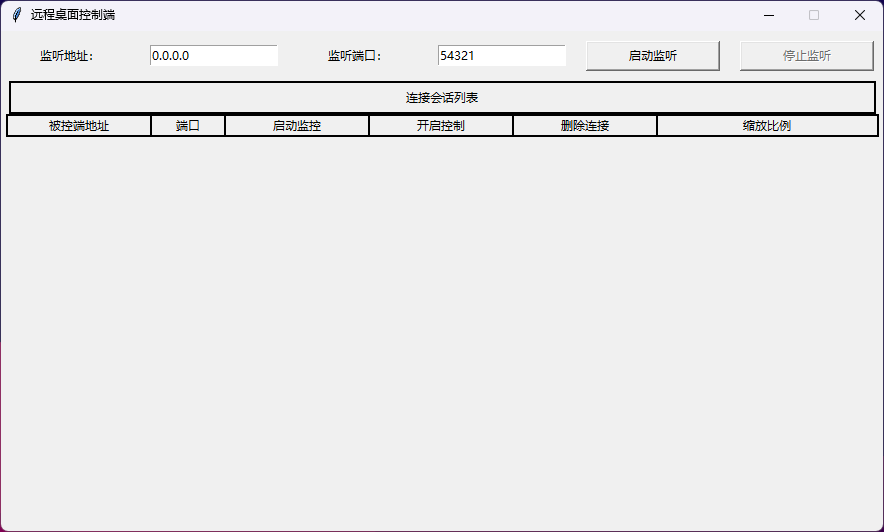
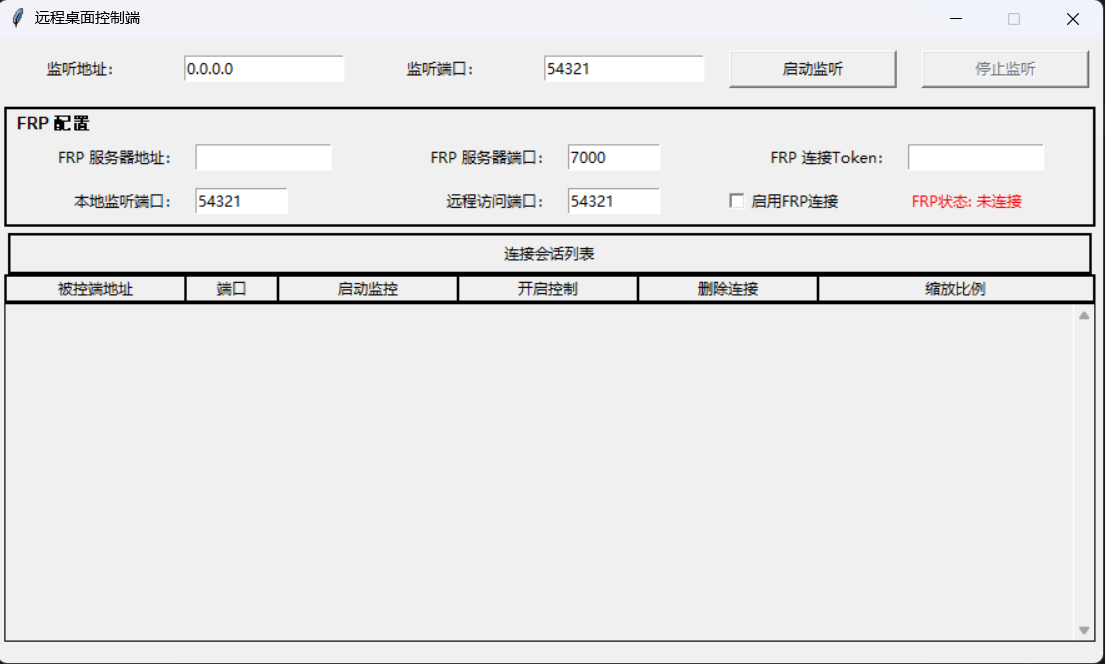
控制端集成frp客户端，实现公网远程控制。

diff --git a/client.py b/client.py
@@ -411,7 +411,7 @@ class RemoteDesktopClient:
         self.root.title("远程桌面被控端")
 
         # 设置窗口大小，在屏幕居中显示
-        win_width, win_height = 300, 230
+        win_width, win_height = 350, 230
         win_x = (self.root.winfo_screenwidth() - win_width) // 2
         win_y = (self.root.winfo_screenheight() - win_height) // 2
         self.root.geometry(f'{win_width}x{win_height}+{win_x}+{win_y}')

diff --git a/README.md b/README.md
@@ -1,26 +1,45 @@
 # 基于Python的远程桌面监控软件
 
-
+---
 ## 控制端
 
-> 默认无需修改监听地址和端口
+> 在同一网段的内网中，默认不用做任何配置修改。
+
+> 在互联网环境下，推荐自行购买公网VPS服务器来搭建frp内网穿透服务:
+> 
+> `FRP服务器地址` 填写`VPS服务器` 的 `公网IP地址`
+> 
+> `FRP连接token` 填写`VPS服务器` 的 `FRP连接token`
+> 
+> `远程访问端口`随便填
+> 
+> `本地监听端口`保持和`监听端口`一致
 
 ![](imgs/1.png)
 
 
+---
 ## 被控端
 
-> 填写`控制端的`内网`IP地址`和监听`端口`，启动连接后会如遇到网络问题导致连接断开10s后会自动重连，无需人为介入。
+> 在同一网段的内网中，`目标地址` 直接填写 `控制端` 的 `内网IP地址` 和 `监听端口`。
+
+> 在互联网环境下，推荐自行购买公网VPS服务器来搭建frp内网穿透服务:
 > 
-> 如果使用考试客户端软件，建议自行修改该被控端的exe文件的名字来迷惑考试客户端软件的进程扫描行为，如`SoftwareUpdate.exe`。
->
-> 隐藏窗口后，用完了可以通过任务管理器杀进程来结束程序。
+> `目标地址` 填写`VPS服务器` 的 `公网IP地址`
 > 
-> 如需在互联网环境下使用内网穿透软件，如frp，可以参考最下面的教程。
+> `目标端口` 填写`VPS服务器` 的 `远程访问端口`
+
+> 启动连接后会如遇到网络问题导致连接断开 `10s` 后会自动重连到控制端，无需人为介入。
+> 
+> 如果考试使用客户端软件，建议自行修改该被控端的exe文件名来迷惑考试客户端软件的进程扫描行为，如`WindowsUpdate.exe`。
 >
+> 隐藏窗口后，只能通过任务管理器杀进程来结束程序。
+> 
+
 
 ![](imgs/2.png)
 
+---
 
 ## 监控界面
 
@@ -28,11 +47,12 @@
 
 ![](imgs/3.png)
 
+---
 
 # 开发环境
 
 ```plain
-python 3.8.20
+python 3.8
 ```
 
 ```bash
@@ -52,6 +72,8 @@ PyAutoGUI==0.9.54
 pyinstaller==6.13.0
 ```
 
+---
+
 # 通过内网穿透实现互联网环境下的远程监控
 
 ## 前提条件
@@ -62,12 +84,12 @@ pyinstaller==6.13.0
 
 ## 服务器部署Frp内网穿透
 
-1. 下载[frp压缩包](https://github.com/fatedier/frp)，解压，如 `frp_0.62.1_linux_amd64.tar.gz`：
+1. 下载[frp压缩包](https://github.com/fatedier/frp)，解压，如 `frp_0.65.0_linux_amd64.tar.gz`：
 
 ```bash
-wget https://github.com/fatedier/frp/releases/download/v0.62.1/frp_0.62.1_linux_amd64.tar.gz
-tar -xzvf frp_0.62.1_linux_amd64.tar.gz
-cd frp_0.62.1_linux_amd64
+wget https://github.com/fatedier/frp/releases/download/v0.65.0/frp_0.65.0_linux_amd64.tar.gz
+tar -xzvf frp_0.65.0_linux_amd64.tar.gz
+cd frp_0.65.0_linux_amd64
 
 ```
 
@@ -97,7 +119,7 @@ Wants = network.target
 [Service]
 Type = simple
 # 启动frps的命令，需修改为您的frps的文件夹路径
-ExecStart = /root/frp_0.62.1_linux_amd64/frps -c /root/frp_0.62.1_linux_amd64/frps.toml
+ExecStart = /root/frp_0.65.0_linux_amd64/frps -c /root/frp_0.65.0_linux_amd64/frps.toml
 
 [Install]
 WantedBy = multi-user.target
@@ -125,48 +147,14 @@ systemctl status frps
      Memory: 14.0M
         CPU: 1min 45.006s
      CGroup: /system.slice/frps.service
-             └─746 /root/frp_0.62.1_linux_amd64/frps -c /root/frp_0.62.1_linux_amd64/frps.toml
+             └─746 /root/frp_0.65.0_linux_amd64/frps -c /root/frp_0.65.0_linux_amd64/frps.toml
 ```
 
 
-## 本地安装FrpDesktop客户端连接服务器
 
-1. 下载[FrpDesktop客户端](https://github.com/luckjiawei/frpc-desktop) 到本地电脑安装。
-
-2. 下载frp，版本要和服务器一致。
-
-![image](https://github.com/user-attachments/assets/dfb0ab4f-a44d-4ef4-9744-4394c9c3860e)
-
-3. 配置frp服务。
-
-![image](https://github.com/user-attachments/assets/bdafef2c-686e-474f-bcf1-e9492eb3bafc)
-
-![image](https://github.com/user-attachments/assets/3c402434-0337-4987-aea3-9ca9446bbb85)
-
-
-4. 添加一个连接监听配置。
-
-![image](https://github.com/user-attachments/assets/acba201a-2275-4550-99dc-2553a1e98d1d)
-
-![image](https://github.com/user-attachments/assets/0d74908e-48c5-4795-bde7-1f274cedb1fc)
-
-5. 启动，连接服务器
-
-![image](https://github.com/user-attachments/assets/18b2057c-93a1-4805-9150-39549517baa5)
-
-![image](https://github.com/user-attachments/assets/47687fba-5970-4180-9a09-8ff91f9b4aa6)
-
-
-## 使用
-
-此时，`被控端`需要填写`服务器`的`IP地址`和监听`端口`。
-
-
-# 参考
+---
+# 致谢
 
 控制流数据实现参考了 [L.Chen 的 remote-desktop](https://github.com/pysrc/remote-desktop) 代码。
 
 
-# 注意
-
-控制功能并不完善，仅鼠标点击正常，键盘控制输入目前仍待改进。
